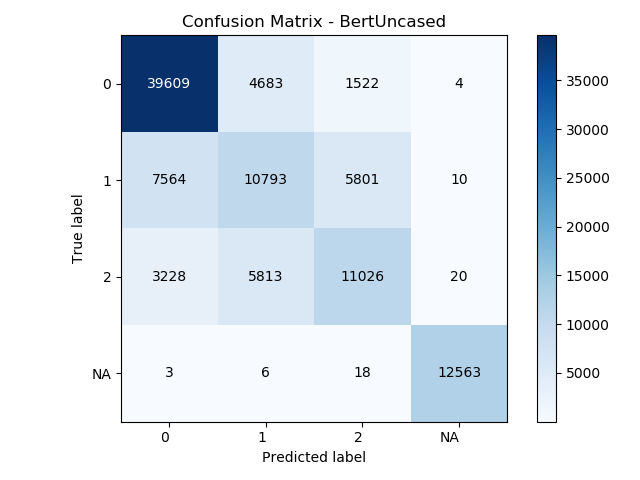
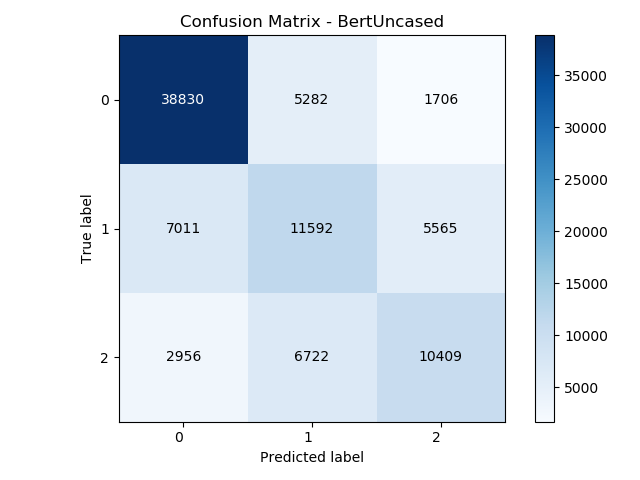
fixed confusion matrix

diff --git a/main.py b/main.py
@@ -348,7 +348,9 @@ def test(model, iterator, criterion, tag_to_index, index_to_tag, device, config)
 
     np.set_printoptions(precision=1)
     plot_confusion_matrix(y_true, y_pred, classes, title='Confusion Matrix - ' + config.model)
-    plt.savefig('confusion_matrix-'+ config.model+'.png')
+
+    plot_name = 'confusion_matrix-'+ config.model+'.png' if config.ignore_punctuation else 'confusion_matrix-'+ config.model+'no_NA.png'
+    plt.savefig(plot_name)
 
     accuracy = accuracy_score(y_true, y_pred)
     f1 = f1_score(y_true, y_pred, average='macro')

diff --git a/README.md b/README.md
@@ -97,19 +97,26 @@ Atlas 2 2
 | BiLSTM (3 layers) | 70.5%                       | 64.6%                     |
 | Majority class    | 44.0%                       | 50.9%                     |
 
+
 ## Analysis
 
 Sample analyses (to be reproduced for the paper)
 
+![Bert-uncased](images/confusion_matrix-BertUncased-punct.png)
+
+|             | precision | recall  | f1-score| support   |
+| ---         | ---       | ---     | ---     |           |
+|    label 0  |    0.7891     |    0.8606     |    0.8233    | 45818     |
+|    label 1  |     0.5072     |    0.4365     |    0.4692    |     24168     |
+|    label 2  |    0.5909     |    0.5679     |    0.5792    |     20087     |
+|   label NA  |     0.9979     |    0.9978     |    0.9979    |     12590     |
+| **avg / total** | **0.7095** |    **0.7203** |    **0.7136** |    **102663** |
+
+
+
 ![Bert-uncased](images/confusion_matrix-BertUncased.png)
 
 
-|    label      | precision |   recall  | f1-score  | support    |
-| ---           | ---       |  ---      | ---       | ---        |
-|         0     |     0.79  |    0.85   |    0.82   |  45818     |
-|         1     |     0.49  |    0.47   |    0.48   |  24168     |
-|         2     |     0.58  |    0.52   |    0.55   |  20087     |
-|**avg / total**| **0.67**  | **0.67**  | **0.67**  |  **90073** |
 
 ## TODO
 
